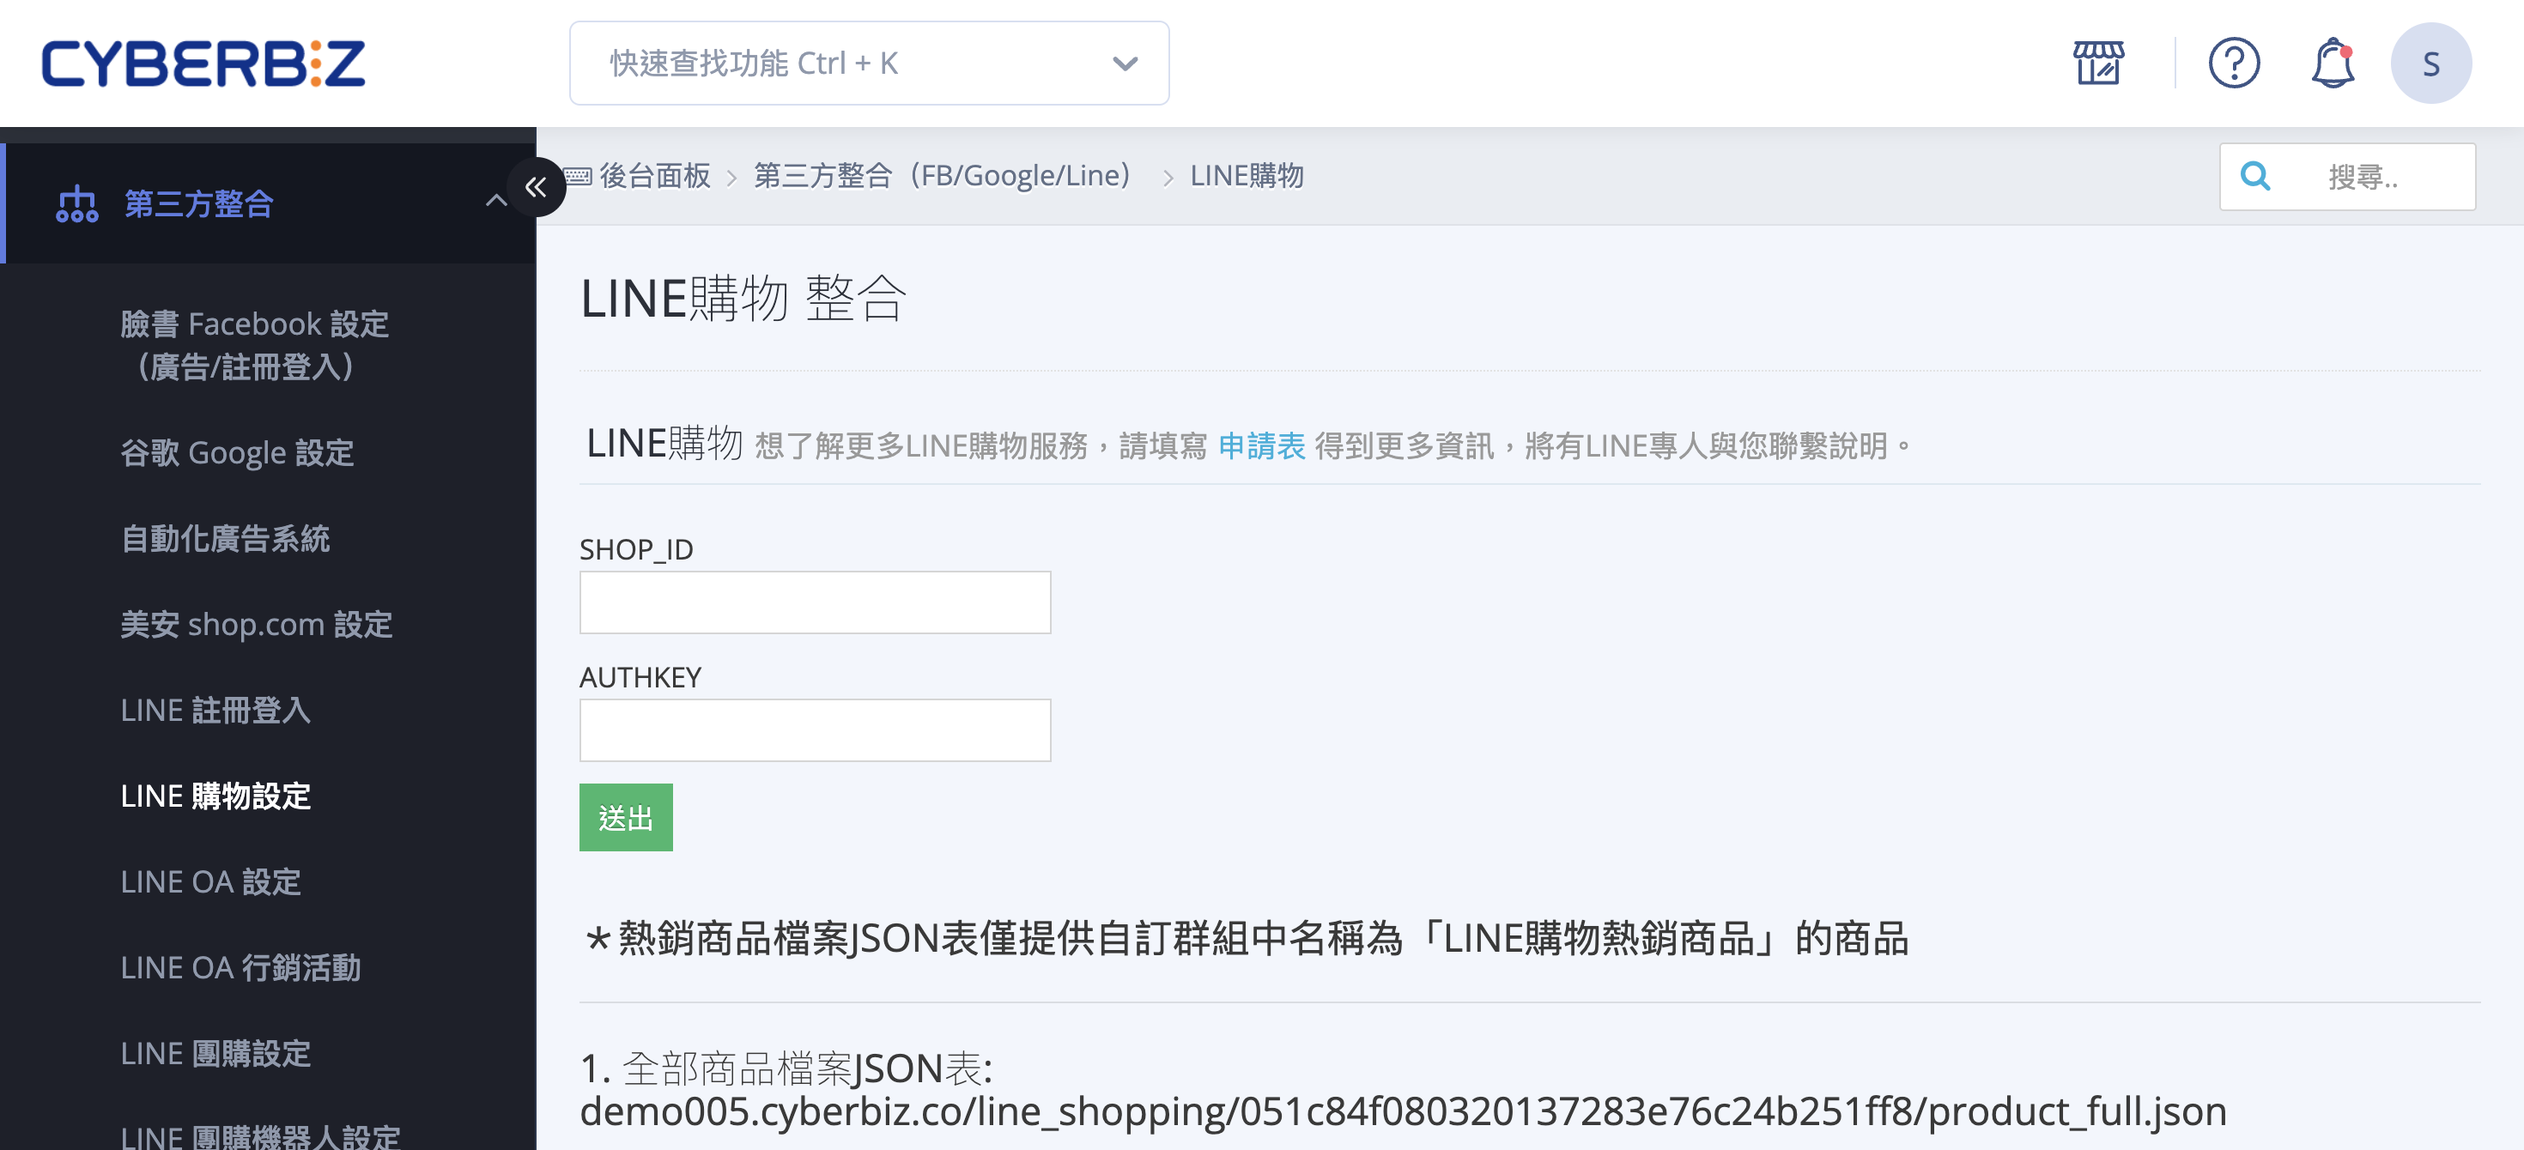
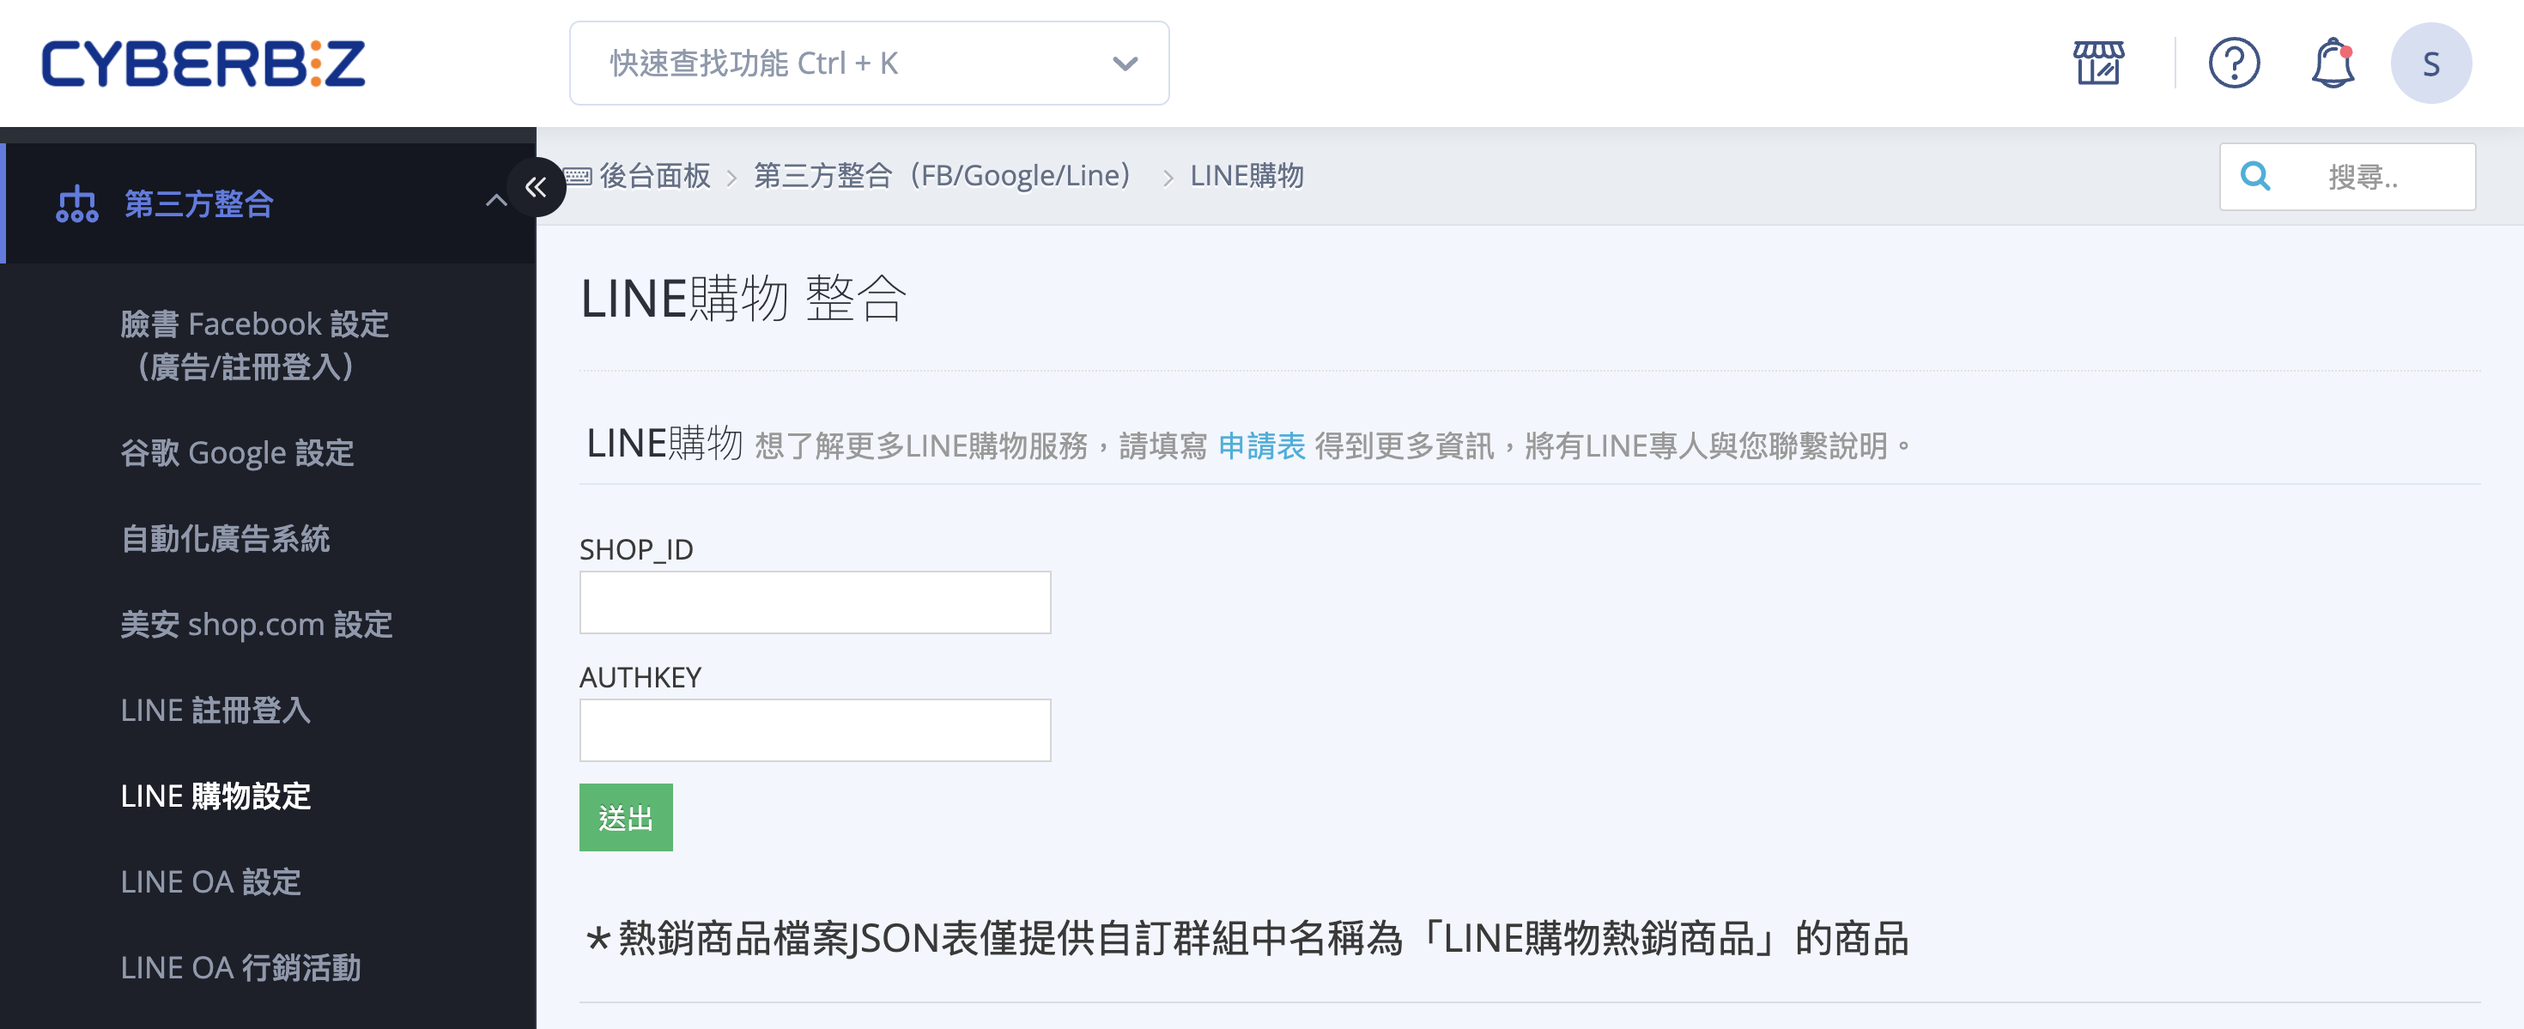
update

diff --git a/docs/ec/integrations/fb/meta-ads/meta-ad-idle-account-reclaim.md b/docs/ec/integrations/fb/meta-ads/meta-ad-idle-account-reclaim.md
@@ -2,7 +2,7 @@
 title: Meta 廣告帳號閒置釋出機制與保留說明
 description: CYBERBIZ Meta 廣告帳號閒置回收機制的觸發條件、激活方式，以及帳號釋出後的影響與重新申請流程。
 created: 2026-04-27 14:15
-last_modified: 2026-06-26 10:05
+last_modified: 2026-07-02 11:44
 lang: zh-TW
 type: explanation
 status: ""
@@ -120,8 +120,8 @@ hide:
 *   **失去權限**：原商家將 **永久失去該廣告帳號的操作權限**。
 *   **重新申請**：若未來仍有廣告投放需求，商家必須 **重新執行申請流程** 來建立一個全新的廣告帳號，相關操作請參閱「[建立 Meta 廣告帳號並完成儲值](create-meta-ad-account-top-up.md){ title="建立 Meta 廣告帳號並完成儲值" }」教學。
 
-!!! tip "重要提醒"
-    為了確保廣告帳號的穩定性，建議商家在建立帳號後盡早完成 **最低門檻（NT$ 15,000）** 的儲值，以避免因過期導致資產權限遺失。
+!!! warning "重要提醒"
+    為了確保廣告帳號的穩定性，建議商家在建立帳號後盡早完成 **最低門檻** 的儲值，以避免因過期導致資產權限遺失。
 
 ## 後續操作
 
@@ -129,7 +129,7 @@ hide:
 
 - :lucide-wallet:{ .lg }   
   [__建立廣告帳號並儲值__](create-meta-ad-account-top-up.md){ title="建立 Meta 廣告帳號並完成儲值" }       
-  了解完整的廣告帳號建立流程與最低 NT$15,000 儲值門檻，避免帳號進入閒置回收流程。
+  了解完整的廣告帳號建立流程，避免帳號進入閒置回收流程。
 
 - :lucide-rocket:{ .lg }   
   [__投放廣告活動__](setup-meta-ad-campaign.md){ title="設定 Meta 廣告活動" }       
@@ -141,11 +141,11 @@ hide:
 
 ??? quote "如何避免廣告帳號被系統釋出？"
 
-    請務必於六個月內完成首次[儲值](create-meta-ad-account-top-up.md#儲值廣告金){ title="建立 Meta 廣告帳號並完成儲值" }。建議商家在建立帳號後盡早完成最低門檻 NT$ 15,000 的儲值，避免因閒置過久導致帳號被系統釋出。
+    請務必於六個月內完成首次[儲值](create-meta-ad-account-top-up.md#儲值廣告金){ title="建立 Meta 廣告帳號並完成儲值" }。建議商家在建立帳號後盡早完成最低門檻的儲值，避免因閒置過久導致帳號被系統釋出。
 
 ??? quote "帳號被釋出後可以復原嗎？"
 
-    無法復原。一旦帳號進入釋出流程並完成](create-meta-ad-account-top-up.md)作權限**。若未來仍有廣告投放需求，必須[重新執行申請流程建立全新帳號](建立 Meta 廣告帳號並儲值.md){ title="建立 Meta 廣告帳號並完成儲值" }。
+    無法復原。一旦帳號進入釋出流程並完成回收，原商家將 **永久失去該廣告帳號的操作權限**。若未來仍有廣告投放需求，必須 **重新執行申請流程** 建立全新帳號，相關操作請參閱「[建立 Meta 廣告帳號並完成儲值](create-meta-ad-account-top-up.md){ title="建立 Meta 廣告帳號並完成儲值" }」教學。
 
 ??? quote "選擇「不再提醒我」後，帳號就不會被釋出嗎？"
 

diff --git a/docs/ec/integrations/fb/meta-ads/create-meta-ad-account-top-up.md b/docs/ec/integrations/fb/meta-ads/create-meta-ad-account-top-up.md
@@ -2,7 +2,7 @@
 title: 建立 Meta 廣告帳號並儲值
 description: 透過 CYBERBIZ 建立 Meta 廣告帳號並完成儲值。
 created: 2026-04-17 17:10
-last_modified: 2026-06-30 12:29
+last_modified: 2026-07-02 11:38
 lang: zh-TW
 type: tutorial
 status: ""
@@ -75,7 +75,9 @@ hide: []
 
 透過 CYBERBIZ 建立 Meta 廣告帳號，商家可由系統代開廣告費發票並支付費用，免去自行向國稅局申報境外稅的繁瑣程序。
 
-## 廣告帳號建立
+## 操作步驟
+
+### 廣告帳號建立
 
 !!! warning "前置需求"
     建立廣告帳號前，請確保您已擁有 **企業管理帳號及相關資產權限**。若尚未建立，請先 [前往 Meta 企業管理平台](https://business.facebook.com/) 註冊。
@@ -88,7 +90,9 @@ hide: []
 
 ![啟用Meta廣告帳號](../../../../assets/images/ec-第三方整合-fb-meta廣告帳號-啟用.png)
 
-## 分享廣告帳號權限
+---
+
+### 分享廣告帳號權限
 
 建立廣告帳號後，需將操作權限分享給商家的企業管理平台：
 
@@ -107,7 +111,9 @@ hide: []
 
     ![Meta企業管理平台-廣告帳號-指派相關人員](../../../../assets/images/ec-第三方整合-fb-meta企業管理平台-廣告帳號-指派相關人員.png)
 
-## 查詢企業管理平台編號
+---
+
+### 查詢企業管理平台編號
 
 1. 登入 [企業管理平台設定頁面](https://business.facebook.com/latest/settings)。
 2. 點選 **「設定」** > **「商家資訊」**。
@@ -117,7 +123,9 @@ hide: []
 
 !!! note "相關資源：[Meta 官方說明](https://zh-tw.facebook.com/business/help/1181250022022158)。"
 
-## 像素設定 <small>Pixel</small>
+---
+
+### 像素設定 <small>Pixel</small>
 
 為了追蹤消費者行為，需手動將既有的像素連結至新建立的廣告帳號：
 
@@ -127,14 +135,13 @@ hide: []
 
 ![企業管理平台-像素連結廣告帳戶](../../../../assets/images/ec-第三方整合-fb-meta企業管理平台-廣告帳號-連結像素.gif)
 
-## 儲值廣告金
+---
+
+### 儲值廣告金
 
 !!! info "儲值規範與費用計算"
 
     - **儲值限制**：**最低儲值門檻為新台幣 9,000 元**。
-    - **費用計算**：扣款總計 = 廣告預算 × (1 + 服務費% + 5% 稅金)。
-        - **企業版**：4% 手續費 + 5% 稅金
-        - **一般版**：5% 手續費 + 5% 稅金
     - **時效說明**：廣告預算儲值後 **沒有時間限制**，不會因一個月未用完而被洗掉。
     - **閒置帳號提醒**：若帳號建立後 **滿六個月未曾儲值**，將被視為「閒置帳號」並被系統釋出，屆時商家將失去該帳號操作權限。
 
@@ -160,10 +167,6 @@ hide: []
 </div>
 
 ## 常見問題
-
-??? quote "最低儲值金額是多少？"
-
-    最低儲值門檻為新台幣 15,000 元。
 
 ??? quote "儲值後廣告預算會過期嗎？"
 

diff --git a/docs/ec/integrations/fb/mbe/exclude-products-fb-instagram-sync.md b/docs/ec/integrations/fb/mbe/exclude-products-fb-instagram-sync.md
@@ -1,8 +1,8 @@
 ---
-title: 排除商品不同步至 Facebook 與 Instagram 商店
+title: 排除商品不同步至 FB 與 IG 商店
 description: 透過商品標籤設定或商務管理工具，排除特定商品不同步至 Facebook 與 Instagram 商店。
 created: 2026-04-14 11:25
-last_modified: 2026-06-26 10:05
+last_modified: 2026-07-02 11:33
 lang: zh-TW
 type: tutorial
 status: ""
@@ -74,23 +74,25 @@ hide: []
 !!! info "系統更新時間"
     官網商品資訊通常於每日 **凌晨 2 點或 2 點半** 自動同步至 Facebook 商店，當日更新的內容需等候同步完成才會呈現。
 
-## 前置作業
+## 使用條件與限制
 
 - [x] 完成 [Facebook 跟 Instagram 商店串接](setup-fb-instagram-shop.md){ title="設定 Facebook 跟 Instagram 商店" }。
 
-## 透過官網後台標籤排除 <small>自動化</small>
+## 操作步驟
+
+### 透過官網後台標籤排除 <small>自動化</small>
 
 若您有特定商品（如贈品或測試品）不希望同步至第三方平台，最直接的方法是利用標籤過濾：
 
 <div class="grid cards" markdown>
 
-- :lucide-package-x:{ .lg }   
-  [__設定商品排除標籤__](../../../products/categories-and-tags/manage-product-tags.md#排除上傳至第三方平台標籤){ title="管理商品標籤" }     
-  在商品標籤輸入「排除 product feed」或「贈品」，系統自動過濾不同步的商品。
+- :lucide-package-x:{ .lg } [__設定商品排除標籤__](../../../products/categories-and-tags/manage-product-tags.md#排除上傳至第三方平台標籤){ title="管理商品標籤" }     
 
 </div>
 
-## 於商務管理工具中調整 <small>手動調整</small>
+---
+
+### 於商務管理工具中調整 <small>手動調整</small>
 
 若串接已完成，您也可以直接在 Meta 商務管理工具的管理介面調整能見度：
 
@@ -103,6 +105,8 @@ hide: []
 ![設定FB-IG商店能見度](../../../../assets/images/ec-第三方整合-fb-fb-ig商店-設定商店能見度.png)
 
 !!! note "更多流程及相關說明，請參閱 Meta 官方文件：[管理商店在 Facebook 和 Instagram 上的能見度 :lucide-external-link:](https://zh-tw.facebook.com/business/help/23907275388927202)。"
+
+---
 
 #### 隱藏單一或部分商品
 

diff --git a/docs/ec/integrations/fb/mbe/setup-fbe-domain-verification.md b/docs/ec/integrations/fb/mbe/setup-fbe-domain-verification.md
@@ -2,7 +2,7 @@
 title: 設定 FBE 網域驗證
 description: 在企業管理平台中完成網域驗證。
 created: 2026-04-10 14:50
-last_modified: 2026-06-26 10:05
+last_modified: 2026-07-02 11:24
 lang: zh-TW
 type: tutorial
 status: ""
@@ -45,7 +45,7 @@ related:
   - "[[網域管理]]"
 tags:
   - FBE
-  - Facebook_企業管理平台
+  - Facebook 企業管理平台
   - 網域驗證
   - 事件追蹤
   - DNS
@@ -76,17 +76,19 @@ hide: []
 
 **Facebook 網域驗證** 的主要目的是讓使用者在企業管理平台中認領網域所有權，進而控制連結編輯權限、優化廣告投放效果，並避免網站被他人盜用。
 
-## 前置作業
+## 使用條件與限制
 
 - [x] 需先 [啟用 Facebook 商業擴充功能與相關資產連結](setup-fbe-authorization.md){ title="設定 FBE 帳號授權與資產連結" }。
 
 ## 網域驗證方式選擇
 
-網域驗證主要分為 [**DNS 驗證**](#dns-驗證-建議使用) 與 [**中繼標籤驗證**](#中繼標籤驗證-meta-tag) 兩種方式。
+網域驗證主要分為 [DNS 驗證](#dns-驗證-建議使用) 與 [中繼標籤驗證](#中繼標籤驗證-meta-tag) 兩種方式。
 
 !!! info "建議優先使用 DNS 系統進行驗證；操作後台程式碼的中繼標籤驗證，若有失誤，系統商不負後台程式修改責任。更多驗證方式資訊與說明，請參考 [官方說明 :lucide-external-link:](https://zh-tw.facebook.com/business/help/321167023127050)。"
 
-## DNS 驗證 <small>建議使用</small>
+## 操作步驟
+
+### DNS 驗證 <small>建議使用</small>
 
 1.  **進入企業管理平台**：登入[企業管理平台 :lucide-external-link:](https://business.facebook.com/latest/settings)，點選「設定」>「品牌安全與適用性」>「網域」，新增您的主網域名稱。
 
@@ -141,7 +143,7 @@ hide: []
 
     ![企業管理平台-驗證成功](../../../../assets/images/ec-第三方整合-meta商家資產管理平台-驗證成功.png)
 
-## 中繼標籤驗證 <small>Meta-tag</small>
+### 中繼標籤驗證 <small>Meta-tag</small>
 
 1.  **取得代碼**：在企業管理平台中「品牌安全和適用性」裡的「網域」頁面點選「中繼標籤驗證」，複製整段代碼。
 

diff --git a/docs/ec/integrations/fb/setup-facebook-quick-login.md b/docs/ec/integrations/fb/setup-facebook-quick-login.md
@@ -2,7 +2,7 @@
 title: 設定 Facebook 快速登入
 description: 設定 Facebook 快速登入功能，讓消費者能使用 Facebook 帳戶一鍵註冊或登入會員，並自動抓取 Facebook 綁定的信箱作為帳號。
 created: 2026-03-31 11:23
-last_modified: 2026-06-26 10:05
+last_modified: 2026-07-02 10:44
 lang: zh-TW
 type: tutorial
 status: ""
@@ -83,8 +83,8 @@ hide: []
 - [x] **網址安全性：** 官網網址必須具備 **SSL 憑證**（即 https:// 開頭）。
 - [x] **企業驗證：** 所使用的 Meta 企業管理平台需先完成[驗證 :lucide-external-link:](https://www.facebook.com/business/help/159334372093366)。
 - [x] **網域重新導向：** 請確認後台「網域管理」中，「[總是將顧客重新導向到這裡](../../website-management/domain-management.md#cyberbiz-後台新增網域){ title="網域管理" }」勾選的是 Facebook 所設定的網域。
-- **信箱限制：** 若消費者使用 Hinet 信箱，可能會因 Hinet 阻擋訊息而無法收到忘記密碼等系統通知，建議引導使用其他信箱。
-- **帳號合併機制：** 若顧客的 Facebook 信箱與 Google 或 LINE 登入使用的信箱相同，系統會自動將其判定為同一會員並進行 **帳號合併**。
+- [x] **信箱限制：** 若消費者使用 Hinet 信箱，可能會因 Hinet 阻擋訊息而無法收到忘記密碼等系統通知，建議引導使用其他信箱。
+- [x] **帳號合併機制：** 若顧客的 Facebook 信箱與 Google 或 LINE 登入使用的信箱相同，系統會自動將其判定為同一會員並進行 **帳號合併**。
 
 ## 快速登入功能設定
 

diff --git a/docs/ec/integrations/fb/mbe/setup-fb-instagram-shop.md b/docs/ec/integrations/fb/mbe/setup-fb-instagram-shop.md
@@ -1,8 +1,8 @@
 ---
-title: 設定 Facebook 跟 Instagram 商店
+title: 設定 FB 跟 IG 商店
 description: 設定 Facebook 與 Instagram 商店，建立社群銷售管道並同步商品。
 created: 2026-04-13 16:31
-last_modified: 2026-06-26 10:05
+last_modified: 2026-07-02 11:29
 lang: zh-TW
 type: tutorial
 status: ""
@@ -73,13 +73,13 @@ icon: lucide/store
 hide: []
 ---
 
-## Facebook 與 Instagram 商店設定說明
+## FB 與 IG 商店設定說明
 
 **FB、IG 商店設定** 的主要目的是建立社群商店，讓品牌能透過 Facebook 與 Instagram 觸及更多流量，並將潛在顧客導流至官網消費。
 
 !!! note "相關說明請參閱 Meta 官方教學：[在 Facebook 和 Instagram 上設定商店 :lucide-external-link:](https://zh-tw.facebook.com/business/help/268860861184453)。"
 
-## 前置作業
+## 使用條件與限制
 
 在開始串接 Facebook 與 Instagram 商店前，請先依序完成以下設定：
 
@@ -88,7 +88,9 @@ hide: []
 
 完成上述兩項設定後，串接商店時系統會自動帶入相關資料（如已連結的目錄），您只需依畫面引導完成商店設定即可。
 
-## 串接 Facebook 商店
+## 操作步驟
+
+### 串接 Facebook 商店
 
 請先登入您的 Facebook 帳號，並確保擁有企業管理平台的相關管理權限。
 
@@ -117,7 +119,9 @@ hide: []
 
     ![檢視商店](../../../../assets/images/ec-第三方整合-fbe-串接fb-ig商店-檢視商店.png)
 
-## 串接 IG 商店
+---
+
+### 串接 IG 商店
 
 Instagram 商店需搭配商業帳號使用，且必須先與 Facebook 粉絲專頁及目錄建立連結。
 

diff --git a/docs/ec/integrations/line/group-buy/setup-line-group-bot.md b/docs/ec/integrations/line/group-buy/setup-line-group-bot.md
@@ -2,7 +2,7 @@
 title: 設定 LINE 團購機器人
 description: 建立並設定 LINE 團購機器人，完成 Messaging API、Webhook 與 LIFF 串接，讓使用者可在 LINE 群組內進行團購購物。
 created: 2026-03-11 17:27
-last_modified: 2026-07-02 10:22
+last_modified: 2026-07-02 11:17
 lang: zh-TW
 type: tutorial
 status:
@@ -47,7 +47,7 @@ tags:
   - LINE OA
   - LINE 團購
   - LIFF
-  - Messaging API
+  - Messaging line-group-buy-shoppingAPI
   - Webhook
 acoiv:
 apis: []
@@ -81,7 +81,7 @@ hide: []
 *   **適用環境**：僅限於 **LINE 群組** 或 **多人聊天室**。由於匿名性限制，不支援 LINE 社群 (OpenChat)。
 *   **建議做法**：建議將「品牌官方帳號」與「團購機器人帳號」分開建立，以避免功能干擾。兩者應選擇 **同一個服務提供者 (LINE Provider)**，以便用戶資料流通。
 
-???+ note "LINE 官方帳號與團購機器人分流架構圖"
+??? info-clean "LINE 官方帳號與團購機器人分流架構圖"
     ```mermaid
         graph LR
             %% Define Node Styles

diff --git a/docs/ec/integrations/fb/mbe/setup-fbe-authorization.md b/docs/ec/integrations/fb/mbe/setup-fbe-authorization.md
@@ -2,7 +2,7 @@
 title: 設定 FBE 帳號授權與資產連結
 description: 透過 Facebook 商業擴充套件將像素、粉絲專頁、目錄及廣告帳號等資產連結至 CYBERBIZ 後台。
 created: 2026-04-07 23:59
-last_modified: 2026-06-26 10:05
+last_modified: 2026-07-02 11:19
 lang: zh-TW
 type: tutorial
 status: ""
@@ -138,7 +138,7 @@ hide:
 | **無企業管理平台，但曾擁有廣告帳號** | 建議先透過該廣告帳號建立企業管理平台後再進行連結。<br>*原因：* 過往廣告帳號建立的像素留有受眾資料，這些資料會直接影響未來的廣告投放成效。 |
 | **兩者皆無** | 可直接透過「CYBERBIZ 商業擴充套件」一併建立，系統會同時創建企業管理平台、粉絲專頁、Instagram、商品目錄、廣告帳號及像素。 |
 
-??? note "企業管理平台串接流程"
+??? note-clean "企業管理平台串接流程"
     ```mermaid
     graph LR
         Q1{是否已擁有<br/>企業管理平台？}
